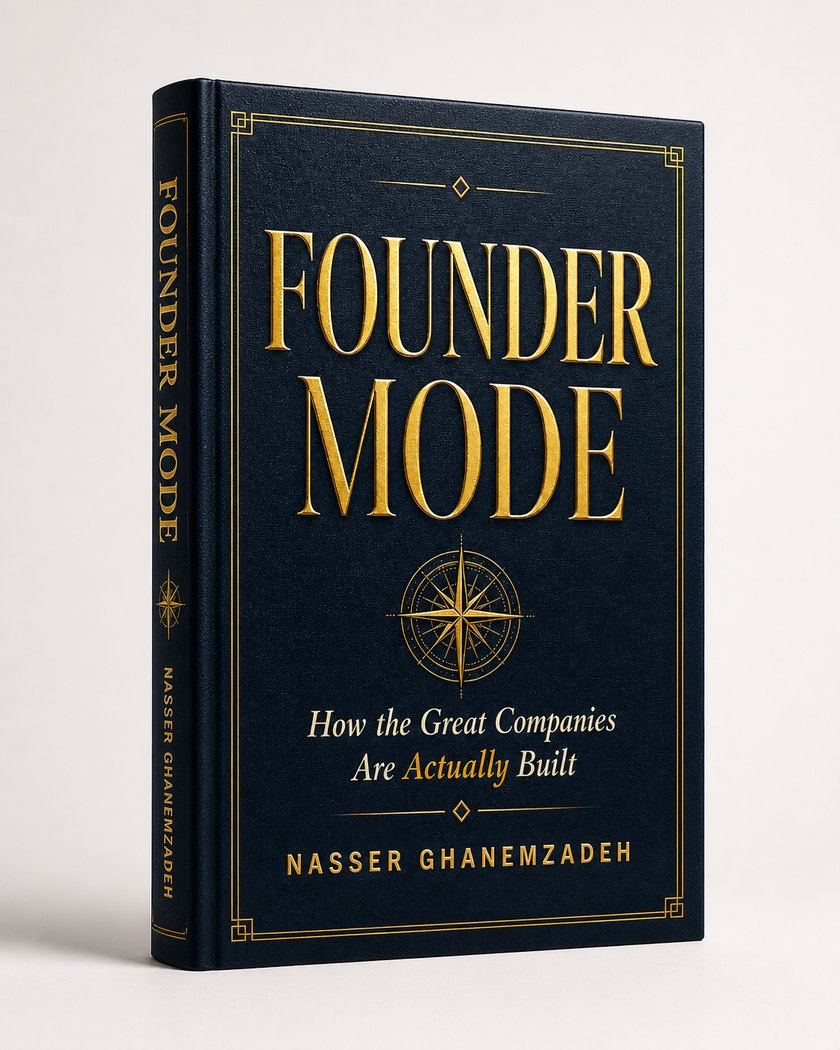
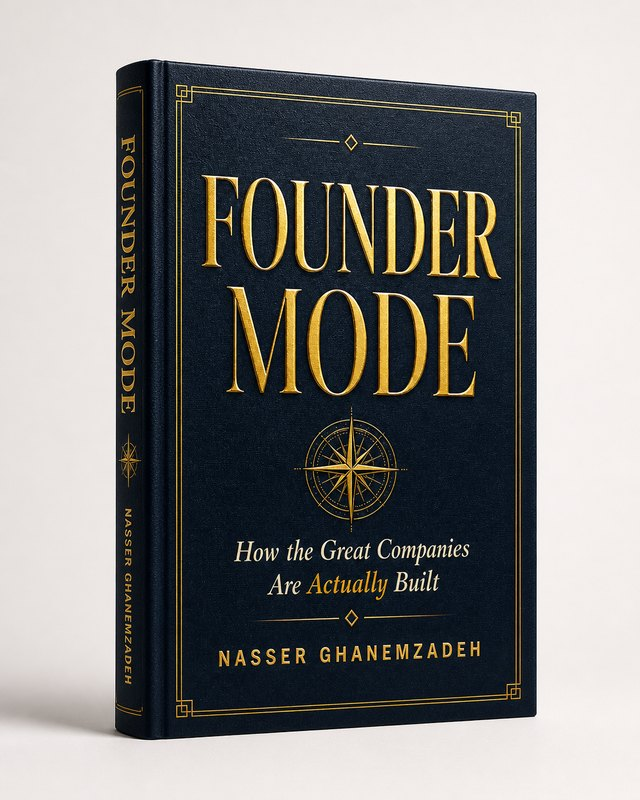
Trim redundant CSS and tune /book/ hero for LCP
- Drop .subscribe-section (no-op, .section already covers it) and
  .book-final-cta (identical to .afs-final-cta).
- Move newsletter hero subscribe-pill spacing from inline style to
  .afs-hero .subscribe-pill.
- Resize /book/ hero cover to 640x800 (was 840x1050; display max is
  320px). WebP 56KB (was 106), JPEG 88KB (was 155).
- Add fetchpriority="high" decoding="async" to the book hero img.
- Preconnect to ghanemzadeh.substack.com on the three pages with the
  subscribe pill, so the post-submit redirect feels snappier.
- Tighten YouTube (Persian) aria-label; the FA visual badge already
  carries the channel context.

diff --git a/index.html b/index.html
@@ -17,6 +17,7 @@
   <link rel="icon" type="image/png" sizes="16x16" href="favicon-16.png">
   <link rel="apple-touch-icon" href="apple-touch-icon.png">
   <link rel="canonical" href="https://ghanemzadeh.com/">
+  <link rel="preconnect" href="https://ghanemzadeh.substack.com">
   <link rel="stylesheet" href="main.css">
 
   <!-- Open Graph -->
@@ -86,7 +87,7 @@
           <a href="https://x.com/ghanemzadeh" target="_blank" rel="noopener noreferrer" aria-label="X (Twitter)">
             <svg width="22" height="22" viewBox="0 0 24 24" fill="currentColor"><path d="M18.901 1.153h3.68l-8.04 9.19L24 22.846h-7.406l-5.8-7.584-6.638 7.584H.474l8.6-9.83L0 1.154h7.594l5.243 6.932ZM17.61 20.644h2.039L6.486 3.24H4.298Z"/></svg>
           </a>
-          <a href="https://www.youtube.com/@ghanemzadeh" target="_blank" rel="noopener noreferrer" aria-label="YouTube (Persian), host of The Great CEO Podcast" class="social-link--with-label">
+          <a href="https://www.youtube.com/@ghanemzadeh" target="_blank" rel="noopener noreferrer" aria-label="YouTube (Persian)" class="social-link--with-label">
             <svg width="22" height="22" viewBox="0 0 24 24" fill="currentColor"><path d="M23.498 6.186a3.016 3.016 0 0 0-2.122-2.136C19.505 3.545 12 3.545 12 3.545s-7.505 0-9.377.505A3.017 3.017 0 0 0 .502 6.186C0 8.07 0 12 0 12s0 3.93.502 5.814a3.016 3.016 0 0 0 2.122 2.136c1.871.505 9.376.505 9.376.505s7.505 0 9.377-.505a3.015 3.015 0 0 0 2.122-2.136C24 15.93 24 12 24 12s0-3.93-.502-5.814zM9.545 15.568V8.432L15.818 12l-6.273 3.568z"/></svg>
             <span class="social-link__label">FA</span>
           </a>
@@ -126,7 +127,7 @@
         <p>Building Sengi and Vectig. Also running a 10-business-day <a href="/ai-feature-sprint/">AI Feature Sprint</a> for B2B SaaS teams. <!-- TODO: Replace with real email address --><a href="mailto:nasser@ghanemzadeh.com">Get in touch</a>.</p>
       </section>
 
-      <section class="section subscribe-section">
+      <section class="section">
         <h2>Newsletter</h2>
         <p class="subscribe-intro">Notes on building AI-native SaaS solo. One email a week. No spam.</p>
         <form class="subscribe-pill" data-utm-medium="home">

diff --git a/book/index.html b/book/index.html
@@ -17,6 +17,7 @@
   <link rel="icon" type="image/png" sizes="16x16" href="/favicon-16.png">
   <link rel="apple-touch-icon" href="/apple-touch-icon.png">
   <link rel="canonical" href="https://ghanemzadeh.com/book/">
+  <link rel="preconnect" href="https://ghanemzadeh.substack.com">
   <link rel="stylesheet" href="/main.css">
 
   <!-- Open Graph -->
@@ -77,7 +78,7 @@
           <div class="book-hero__cover">
             <picture>
               <source type="image/webp" srcset="/assets/book/cover-angle-light.webp">
-              <img src="/assets/book/cover-angle-light.jpg" alt="Founder Mode book cover. Hardcover with gold-foil title and compass rose on a dark navy background." width="840" height="1050">
+              <img src="/assets/book/cover-angle-light.jpg" alt="Founder Mode book cover. Hardcover with gold-foil title and compass rose on a dark navy background." width="640" height="800" fetchpriority="high" decoding="async">
             </picture>
           </div>
           <div>
@@ -131,7 +132,7 @@
         </div>
       </section>
 
-      <section class="section book-final-cta">
+      <section class="section afs-final-cta">
         <h2>Read it first. Help shape it.</h2>
         <p>Drop your email and I'll send the beta PDF. Send notes by the end of beta and your name goes in the acknowledgments.</p>
         <form class="subscribe-pill" data-utm-medium="book_page">

diff --git a/newsletter/index.html b/newsletter/index.html
@@ -17,6 +17,7 @@
   <link rel="icon" type="image/png" sizes="16x16" href="/favicon-16.png">
   <link rel="apple-touch-icon" href="/apple-touch-icon.png">
   <link rel="canonical" href="https://ghanemzadeh.com/newsletter/">
+  <link rel="preconnect" href="https://ghanemzadeh.substack.com">
   <link rel="stylesheet" href="/main.css">
 
   <!-- Open Graph -->
@@ -55,7 +56,7 @@
       <div class="container">
         <h1>Notes from the Edge of Building</h1>
         <p class="afs-subhead">Weekly notes on building AI-native SaaS solo. Product, distribution, founder ops, and the unglamorous middle.</p>
-        <form class="subscribe-pill" data-utm-medium="newsletter_page" style="margin-top: 18px;">
+        <form class="subscribe-pill" data-utm-medium="newsletter_page">
           <label class="visually-hidden" for="sub-email-newsletter">Email address</label>
           <input id="sub-email-newsletter" type="email" name="email" placeholder="Your email..." required autocomplete="email">
           <button type="submit">Subscribe</button>

diff --git a/main.css b/main.css
@@ -504,13 +504,13 @@ img {
 }
 
 /* Substack subscribe pill (reusable) */
-.subscribe-section {
-  margin-bottom: 44px;
-}
-
 .subscribe-intro {
   color: #b0b0b0;
   margin-bottom: 14px;
+}
+
+.afs-hero .subscribe-pill {
+  margin-top: 18px;
 }
 
 .subscribe-pill {
@@ -645,12 +645,6 @@ img {
 
 .book-anchors li strong {
   color: #d4d4d4;
-}
-
-.book-final-cta {
-  border-top: 1px solid #2a2a2a;
-  padding-top: 36px;
-  margin-top: 12px;
 }
 
 .book-author {
